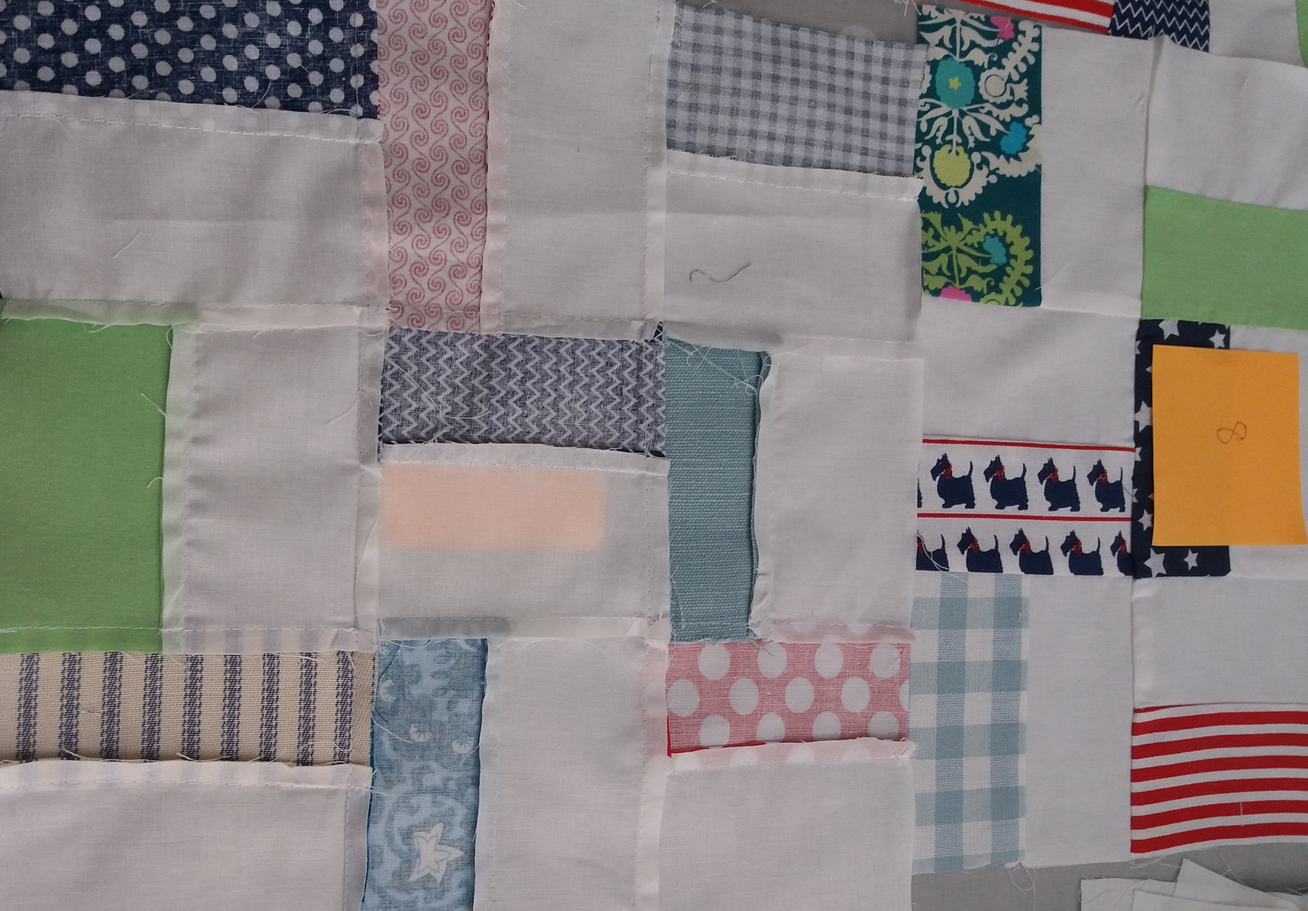
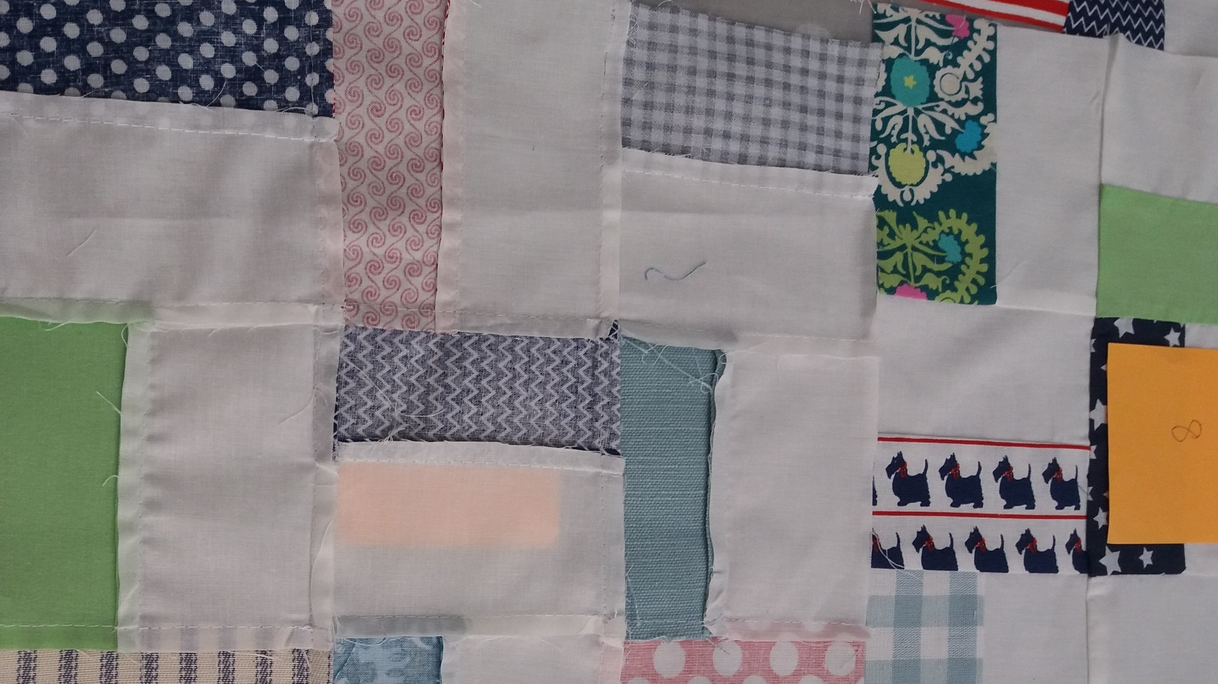
Removed opacity (because it looked rubbish) from the images.

diff --git a/quilts.html b/quilts.html
@@ -44,19 +44,19 @@
             <div class="carousel-inner" role="listbox">
                 <div class="carousel-item active">
                     <img class="d-block w-100" src="src/imgs/quilt.jpg" alt="First slide"
-                         style="max-height: 20%; opacity: 0.6;"/>
+                         style="max-height: 20%;"/>
                 </div>
                 <div class="carousel-item">
                     <img class="d-block w-100" src="src/imgs/quilts/quilt_finish.jpg" alt="Second slide"
-                         style="max-height: 20%; opacity: 0.6;">
+                         style="max-height: 20%;">
                 </div>
                 <div class="carousel-item">
                     <img class="d-block w-100" src="src/imgs/quilts/quilt4.jpg" alt="Third slide"
-                         style="max-height: 10%; opacity: 0.6;"/>
+                         style="max-height: 10%;"/>
                 </div>
                 <div class="carousel-item">
                     <img class="d-block w-100" src="src/imgs/quilts/quilt2.jpg" alt="Fourth slide"
-                         style="max-height: 20%; opacity: 0.6;"/>
+                         style="max-height: 20%;"/>
                 </div>
             </div>
         </div>

diff --git a/monsters.html b/monsters.html
@@ -44,15 +44,15 @@
                 <div class="carousel-inner" role="listbox">
                     <div class="carousel-item active">
                         <img class="d-block w-100" src="src/imgs/monsters/monster.png" alt="First slide"
-                             style="max-height: 20%; opacity: 0.6;"/>
+                             style="max-height: 20%;"/>
                     </div>
                     <div class="carousel-item">
                         <img class="d-block w-100" src="src/imgs/monsters/nessy.png" alt="Second slide"
-                             style="max-height: 20%; opacity: 0.6;">
+                             style="max-height: 20%;">
                     </div>
                     <div class="carousel-item">
                         <img class="d-block w-100" src="src/imgs/monsters/Sulley.jpg" alt="Third slide"
-                             style="max-height: 10%; opacity: 0.6;"/>
+                             style="max-height: 10%;"/>
                     </div>
                 </div>
             </div>
